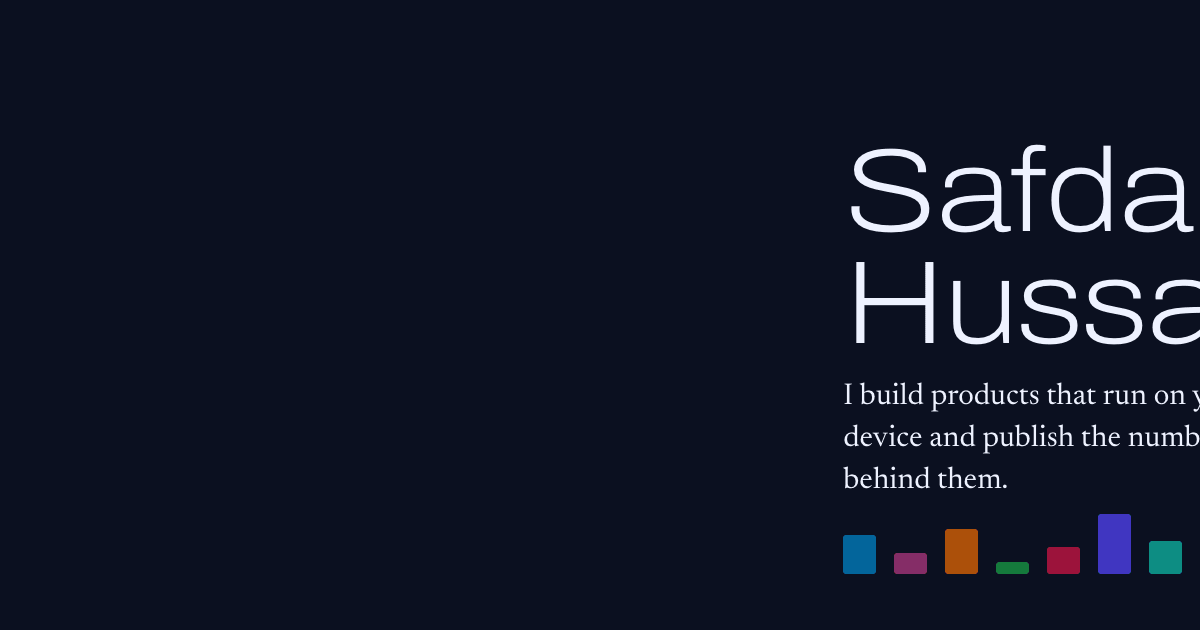
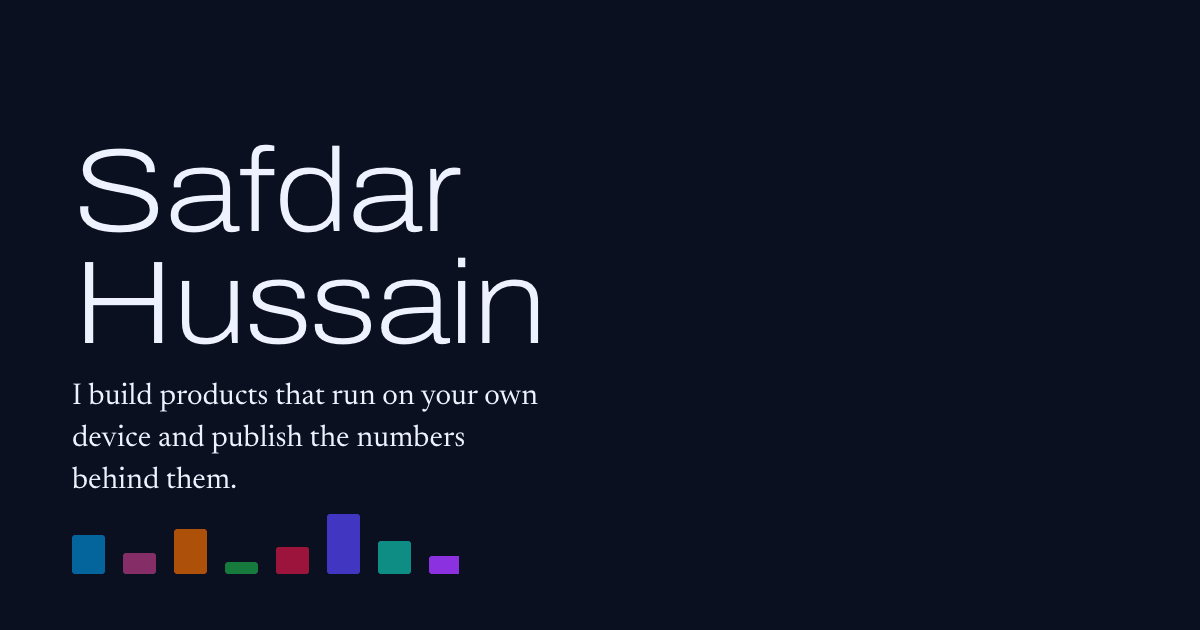
Render the preview picture of every project page

diff --git a/src/styles/base.css b/src/styles/base.css
@@ -175,7 +175,7 @@ html[data-still] body {
 html[data-still] .mast,
 html[data-still] .foot,
 html[data-still='hero'] main > :not(.hero),
-html[data-still='og'] main > * {
+html[data-still='og'] main > :not(.og-card) {
   display: none !important;
 }
 html[data-still='hero'] .hero {
@@ -185,7 +185,8 @@ html[data-still='hero'] .hero {
   max-width: none;
   margin: 0;
   padding: 0 72px 56px;
-  justify-content: flex-end;
+  justify-content: start;
+  align-content: end;
   box-sizing: border-box;
 }
 html[data-still='hero'] .hero h1 {
